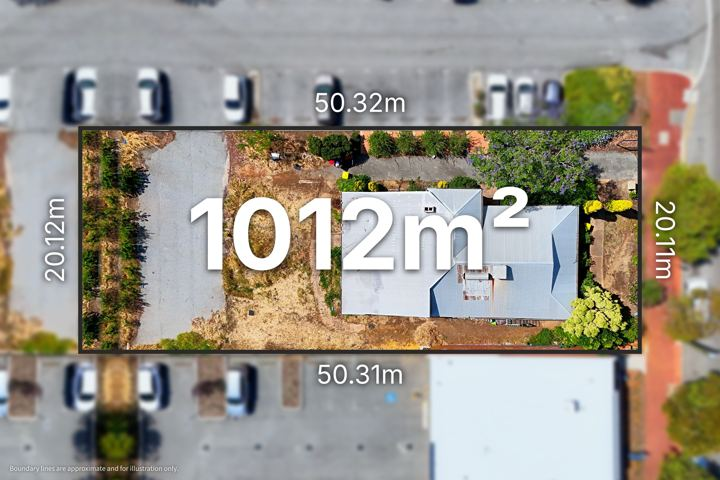
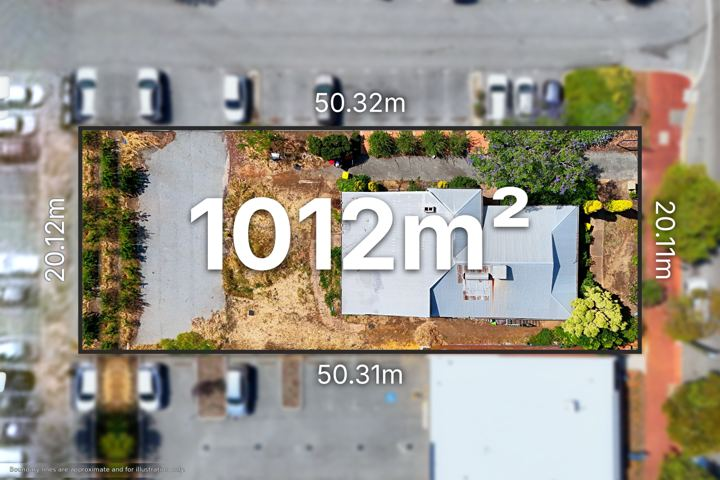
43 William St 0107: satellite blended outside the lot
Claude-Session: https://claude.ai/code/session_01A5qGg2LnJXxgSHoMQFvEEG

Changed region(s): [[0.0, 0.125, 0.2444, 1.0], [0.0, 0.0, 0.0917, 0.0312]]

diff --git a/aerials/17-nov-2026/index.html b/aerials/17-nov-2026/index.html
@@ -5,4 +5,4 @@ body{margin:0;background:var(--bg);color:var(--fg);font:15px/1.45 system-ui,-app
 header,section{max-width:1400px;margin:auto;padding:18px 16px}h1{font-size:20px;margin:0}h2{font-size:17px;margin:0}header p,section p{color:var(--mut);margin:4px 0 0}
 .ed{margin-left:10px;color:var(--acc);font-weight:600;text-decoration:none}a{color:var(--acc)}
 .chk{margin-top:10px}.chk summary{cursor:pointer;color:var(--mut);font-weight:600}.chk iframe{width:100%;height:420px;border:0;border-radius:6px;margin-top:6px;background:#111}.g{display:grid;grid-template-columns:repeat(auto-fill,minmax(280px,1fr));gap:8px;margin-top:10px}.g img{width:100%;display:block;border-radius:4px}</style></head>
-<body><header><h1>Drone edits — Tue 17 Nov 2026</h1><p>Tap a photo for full size. <b>Edit</b> opens the job in the <a href="/pins/">editor</a> with all its pins and settings.</p></header><section><h2>SEND TO EDITOR — no lot boundary (Mac offline, no cadastre/satellite); hazy hills/horizon after sky swap on 0218/0220/0227/0229 (tower ghosting removed); both top-downs over-saturated and the house is off-centre — please re-edit sky/colour · 34 Croyden Rd, Roleystone WA 6111</h2><p>Jayden Cooke · Rodway · 13 photos (top-downs first) <a class="ed" href="/pins/?open=17-nov-2026/34_croyden_rd">Edit</a><a class="ed" href="/lots/?img=/aerials/17-nov-2026/34_croyden_rd/src/DJI_20261117135524_0236_D.jpg&street=Croyden%20Road" target="_blank">Lots</a><a class="ed" href="34_croyden_rd/check.html" target="_blank">Check map</a></p><div class="g"><a href="34_croyden_rd/DJI_20261117135524_0236_D.jpg?v=1794930465" target="_blank"><img loading="lazy" src="34_croyden_rd/t/DJI_20261117135524_0236_D.jpg?v=1794930465" alt=""></a><a href="34_croyden_rd/DJI_20261117135538_0237_D_r180_sq.jpg?v=1794930465" target="_blank"><img loading="lazy" src="34_croyden_rd/t/DJI_20261117135538_0237_D_r180_sq.jpg?v=1794930465" alt=""></a><a href="34_croyden_rd/DJI_20261117134904_0218_D.jpg?v=1794930465" target="_blank"><img loading="lazy" src="34_croyden_rd/t/DJI_20261117134904_0218_D.jpg?v=1794930465" alt=""></a><a href="34_croyden_rd/DJI_20261117135013_0220_D.jpg?v=1794930465" target="_blank"><img loading="lazy" src="34_croyden_rd/t/DJI_20261117135013_0220_D.jpg?v=1794930465" alt=""></a><a href="34_croyden_rd/DJI_20261117135036_0221_D.jpg?v=1794930465" target="_blank"><img loading="lazy" src="34_croyden_rd/t/DJI_20261117135036_0221_D.jpg?v=1794930465" alt=""></a><a href="34_croyden_rd/DJI_20261117135113_0223_D.jpg?v=1794930465" target="_blank"><img loading="lazy" src="34_croyden_rd/t/DJI_20261117135113_0223_D.jpg?v=1794930465" alt=""></a><a href="34_croyden_rd/DJI_20261117135138_0224_D.jpg?v=1794930465" target="_blank"><img loading="lazy" src="34_croyden_rd/t/DJI_20261117135138_0224_D.jpg?v=1794930465" alt=""></a><a href="34_croyden_rd/DJI_20261117135159_0225_D.jpg?v=1794930465" target="_blank"><img loading="lazy" src="34_croyden_rd/t/DJI_20261117135159_0225_D.jpg?v=1794930465" alt=""></a><a href="34_croyden_rd/DJI_20261117135227_0227_D.jpg?v=1794930465" target="_blank"><img loading="lazy" src="34_croyden_rd/t/DJI_20261117135227_0227_D.jpg?v=1794930465" alt=""></a><a href="34_croyden_rd/DJI_20261117135326_0229_D.jpg?v=1794930465" target="_blank"><img loading="lazy" src="34_croyden_rd/t/DJI_20261117135326_0229_D.jpg?v=1794930465" alt=""></a><a href="34_croyden_rd/DJI_20261117143956_0239_D.jpg?v=1794930465" target="_blank"><img loading="lazy" src="34_croyden_rd/t/DJI_20261117143956_0239_D.jpg?v=1794930465" alt=""></a><a href="34_croyden_rd/DJI_20261117144039_0240_D.jpg?v=1794930465" target="_blank"><img loading="lazy" src="34_croyden_rd/t/DJI_20261117144039_0240_D.jpg?v=1794930465" alt=""></a><a href="34_croyden_rd/DJI_20261117144046_0241_D.jpg?v=1794930465" target="_blank"><img loading="lazy" src="34_croyden_rd/t/DJI_20261117144046_0241_D.jpg?v=1794930465" alt=""></a></div><details class="chk" open><summary>Quick check — boundary + 9 pinned places</summary><iframe loading="lazy" src="34_croyden_rd/check.html?v=1794930467" title="Boundary and places check"></iframe></details></section><section><h2>SEND TO EDITOR — pale hard-edged band of old sky above the horizon on 0258/0259/0260 after the sky swap; no lot boundary (grouped dwelling, Mac offline) — please re-do the sky on those frames · 374 Light St, Dianella WA 6059</h2><p>Lucy Deng · Ausvision Realty · 11 photos (top-downs first) <a class="ed" href="/pins/?open=17-nov-2026/374_light_st">Edit</a><a class="ed" href="/lots/?img=/aerials/17-nov-2026/374_light_st/src/DJI_20261117160634_0269_D_r180.jpg&street=Light%20Street" target="_blank">Lots</a><a class="ed" href="374_light_st/check.html" target="_blank">Check map</a></p><div class="g"><a href="374_light_st/DJI_20261117160634_0269_D_r180.jpg?v=1794930470" target="_blank"><img loading="lazy" src="374_light_st/t/DJI_20261117160634_0269_D_r180.jpg?v=1794930470" alt=""></a><a href="374_light_st/DJI_20261117160607_0267_D_sq.jpg?v=1794930470" target="_blank"><img loading="lazy" src="374_light_st/t/DJI_20261117160607_0267_D_sq.jpg?v=1794930470" alt=""></a><a href="374_light_st/DJI_20261117160019_0257_D.jpg?v=1794930470" target="_blank"><img loading="lazy" src="374_light_st/t/DJI_20261117160019_0257_D.jpg?v=1794930470" alt=""></a><a href="374_light_st/DJI_20261117160038_0258_D.jpg?v=1794930470" target="_blank"><img loading="lazy" src="374_light_st/t/DJI_20261117160038_0258_D.jpg?v=1794930470" alt=""></a><a href="374_light_st/DJI_20261117160056_0259_D.jpg?v=1794930470" target="_blank"><img loading="lazy" src="374_light_st/t/DJI_20261117160056_0259_D.jpg?v=1794930470" alt=""></a><a href="374_light_st/DJI_20261117160119_0260_D.jpg?v=1794930470" target="_blank"><img loading="lazy" src="374_light_st/t/DJI_20261117160119_0260_D.jpg?v=1794930470" alt=""></a><a href="374_light_st/DJI_20261117160147_0261_D.jpg?v=1794930470" target="_blank"><img loading="lazy" src="374_light_st/t/DJI_20261117160147_0261_D.jpg?v=1794930470" alt=""></a><a href="374_light_st/DJI_20261117160253_0263_D.jpg?v=1794930470" target="_blank"><img loading="lazy" src="374_light_st/t/DJI_20261117160253_0263_D.jpg?v=1794930470" alt=""></a><a href="374_light_st/DJI_20261117160402_0264_D.jpg?v=1794930470" target="_blank"><img loading="lazy" src="374_light_st/t/DJI_20261117160402_0264_D.jpg?v=1794930470" alt=""></a><a href="374_light_st/DJI_20261117160425_0265_D.jpg?v=1794930470" target="_blank"><img loading="lazy" src="374_light_st/t/DJI_20261117160425_0265_D.jpg?v=1794930470" alt=""></a><a href="374_light_st/DJI_20261117160443_0266_D.jpg?v=1794930470" target="_blank"><img loading="lazy" src="374_light_st/t/DJI_20261117160443_0266_D.jpg?v=1794930470" alt=""></a></div><details class="chk" open><summary>Quick check — boundary + 17 pinned places</summary><iframe loading="lazy" src="374_light_st/check.html?v=1794930472" title="Boundary and places check"></iframe></details></section><section><h2>SEND TO EDITOR — white halo/glow strip along the ridge line on 0114/0115 (faint haze 0108/0111/0112) after the sky swap; house is out of shot on 0110 and 0114 (shooter framing) — please re-do the sky and check those frames · 43 William St, Armadale WA 6112</h2><p>Jayden Cooke · Rodway · 10 photos (top-downs first) <a class="ed" href="/pins/?open=17-nov-2026/43_william_st">Edit</a><a class="ed" href="/lots/?img=/aerials/17-nov-2026/43_william_st/src/dji_fly_20261117_102652_0102_1794923605590_photo_sq.JPG&street=William%20Street" target="_blank">Lots</a><a class="ed" href="43_william_st/check.html" target="_blank">Check map</a></p><div class="g"><a href="43_william_st/dji_fly_20261117_102652_0102_1794923605590_photo_sq.jpg?v=1795010000" target="_blank"><img loading="lazy" src="43_william_st/t/dji_fly_20261117_102652_0102_1794923605590_photo_sq.jpg?v=1795010000" alt=""></a><a href="43_william_st/dji_fly_20261117_102734_0107_1794923598787_photo_sq.jpg?v=1795010000" target="_blank"><img loading="lazy" src="43_william_st/t/dji_fly_20261117_102734_0107_1794923598787_photo_sq.jpg?v=1795010000" alt=""></a><a href="43_william_st/dji_fly_20261117_102804_0108_1794923597373_photo.jpg?v=1795010000" target="_blank"><img loading="lazy" src="43_william_st/t/dji_fly_20261117_102804_0108_1794923597373_photo.jpg?v=1795010000" alt=""></a><a href="43_william_st/dji_fly_20261117_102836_0109_1794923595154_photo.jpg?v=1795010000" target="_blank"><img loading="lazy" src="43_william_st/t/dji_fly_20261117_102836_0109_1794923595154_photo.jpg?v=1795010000" alt=""></a><a href="43_william_st/dji_fly_20261117_102942_0110_1794923593774_photo.jpg?v=1795010000" target="_blank"><img loading="lazy" src="43_william_st/t/dji_fly_20261117_102942_0110_1794923593774_photo.jpg?v=1795010000" alt=""></a><a href="43_william_st/dji_fly_20261117_103016_0111_1794923592394_photo.jpg?v=1795010000" target="_blank"><img loading="lazy" src="43_william_st/t/dji_fly_20261117_103016_0111_1794923592394_photo.jpg?v=1795010000" alt=""></a><a href="43_william_st/dji_fly_20261117_103050_0112_1794923591070_photo.jpg?v=1795010000" target="_blank"><img loading="lazy" src="43_william_st/t/dji_fly_20261117_103050_0112_1794923591070_photo.jpg?v=1795010000" alt=""></a><a href="43_william_st/dji_fly_20261117_103102_0113_1794923589788_photo.jpg?v=1795010000" target="_blank"><img loading="lazy" src="43_william_st/t/dji_fly_20261117_103102_0113_1794923589788_photo.jpg?v=1795010000" alt=""></a><a href="43_william_st/dji_fly_20261117_103116_0114_1794923588534_photo.jpg?v=1795010000" target="_blank"><img loading="lazy" src="43_william_st/t/dji_fly_20261117_103116_0114_1794923588534_photo.jpg?v=1795010000" alt=""></a><a href="43_william_st/dji_fly_20261117_103130_0115_1794923587236_photo.jpg?v=1795010000" target="_blank"><img loading="lazy" src="43_william_st/t/dji_fly_20261117_103130_0115_1794923587236_photo.jpg?v=1795010000" alt=""></a></div><details class="chk" open><summary>Quick check — boundary + 12 pinned places</summary><iframe loading="lazy" src="43_william_st/check.html?v=1794950668" title="Boundary and places check"></iframe></details></section><section><h2>SEND TO EDITOR — sky swap left ghost blocks of old sky above the horizon on 0125/0126/0127 and halos/ghosting around the CBD towers on 0118/0119/0128, grey haze over the hills on 0123/0124 — please replace the sky on every oblique · 28/76 Newcastle St, West Perth WA 6005</h2><p>Shane Garrett · Belle Property · 13 photos (top-downs first) <a class="ed" href="/pins/?open=17-nov-2026/28_76_newcastle_st">Edit</a><a class="ed" href="/lots/?img=/aerials/17-nov-2026/28_76_newcastle_st/src/dji_fly_20261117_123400_0117_1794923584798_photo_r180_sq.JPG&street=Newcastle%20Street" target="_blank">Lots</a><a class="ed" href="28_76_newcastle_st/check.html" target="_blank">Check map</a></p><div class="g"><a href="28_76_newcastle_st/dji_fly_20261117_123400_0117_1794923584798_photo_r180_sq.jpg?v=1794950677" target="_blank"><img loading="lazy" src="28_76_newcastle_st/t/dji_fly_20261117_123400_0117_1794923584798_photo_r180_sq.jpg?v=1794950677" alt=""></a><a href="28_76_newcastle_st/dji_fly_20261117_123356_0116_1794923585995_photo.jpg?v=1794950678" target="_blank"><img loading="lazy" src="28_76_newcastle_st/t/dji_fly_20261117_123356_0116_1794923585995_photo.jpg?v=1794950678" alt=""></a><a href="28_76_newcastle_st/dji_fly_20261117_123438_0118_1794923583683_photo.jpg?v=1794950678" target="_blank"><img loading="lazy" src="28_76_newcastle_st/t/dji_fly_20261117_123438_0118_1794923583683_photo.jpg?v=1794950678" alt=""></a><a href="28_76_newcastle_st/dji_fly_20261117_123500_0119_1794923582541_photo.jpg?v=1794950678" target="_blank"><img loading="lazy" src="28_76_newcastle_st/t/dji_fly_20261117_123500_0119_1794923582541_photo.jpg?v=1794950678" alt=""></a><a href="28_76_newcastle_st/dji_fly_20261117_123532_0120_1794923581349_photo.jpg?v=1794950678" target="_blank"><img loading="lazy" src="28_76_newcastle_st/t/dji_fly_20261117_123532_0120_1794923581349_photo.jpg?v=1794950678" alt=""></a><a href="28_76_newcastle_st/dji_fly_20261117_123548_0121_1794923580121_photo.jpg?v=1794950678" target="_blank"><img loading="lazy" src="28_76_newcastle_st/t/dji_fly_20261117_123548_0121_1794923580121_photo.jpg?v=1794950678" alt=""></a><a href="28_76_newcastle_st/dji_fly_20261117_123610_0122_1794923578874_photo.jpg?v=1794950678" target="_blank"><img loading="lazy" src="28_76_newcastle_st/t/dji_fly_20261117_123610_0122_1794923578874_photo.jpg?v=1794950678" alt=""></a><a href="28_76_newcastle_st/dji_fly_20261117_123630_0123_1794923577572_photo.jpg?v=1794950678" target="_blank"><img loading="lazy" src="28_76_newcastle_st/t/dji_fly_20261117_123630_0123_1794923577572_photo.jpg?v=1794950678" alt=""></a><a href="28_76_newcastle_st/dji_fly_20261117_123646_0124_1794923576272_photo.jpg?v=1794950678" target="_blank"><img loading="lazy" src="28_76_newcastle_st/t/dji_fly_20261117_123646_0124_1794923576272_photo.jpg?v=1794950678" alt=""></a><a href="28_76_newcastle_st/dji_fly_20261117_123702_0125_1794923575020_photo.jpg?v=1794950678" target="_blank"><img loading="lazy" src="28_76_newcastle_st/t/dji_fly_20261117_123702_0125_1794923575020_photo.jpg?v=1794950678" alt=""></a><a href="28_76_newcastle_st/dji_fly_20261117_123724_0126_1794923573753_photo.jpg?v=1794950678" target="_blank"><img loading="lazy" src="28_76_newcastle_st/t/dji_fly_20261117_123724_0126_1794923573753_photo.jpg?v=1794950678" alt=""></a><a href="28_76_newcastle_st/dji_fly_20261117_123754_0127_1794923572402_photo.jpg?v=1794950678" target="_blank"><img loading="lazy" src="28_76_newcastle_st/t/dji_fly_20261117_123754_0127_1794923572402_photo.jpg?v=1794950678" alt=""></a><a href="28_76_newcastle_st/dji_fly_20261117_123806_0128_1794923571185_photo.jpg?v=1794950678" target="_blank"><img loading="lazy" src="28_76_newcastle_st/t/dji_fly_20261117_123806_0128_1794923571185_photo.jpg?v=1794950678" alt=""></a></div><details class="chk" open><summary>Quick check — boundary + 8 pinned places</summary><iframe loading="lazy" src="28_76_newcastle_st/check.html?v=1794950681" title="Boundary and places check"></iframe></details></section><section><h2>SEND TO EDITOR — CBD tower tops ghosted after the sky swap on 0135/0136, faint halo 0131 and haze 0133/0134 — please re-do the sky on the obliques · 79/1178 Hay St, West Perth WA 6005</h2><p>Megan Topham · Belle Property · 12 photos (top-downs first) <a class="ed" href="/pins/?open=17-nov-2026/79_1178_hay_st">Edit</a><a class="ed" href="/lots/?img=/aerials/17-nov-2026/79_1178_hay_st/src/dji_fly_20261117_160212_0129_1794923569992_photo_r270.JPG&street=Hay%20Street" target="_blank">Lots</a><a class="ed" href="79_1178_hay_st/check.html" target="_blank">Check map</a></p><div class="g"><a href="79_1178_hay_st/dji_fly_20261117_160212_0129_1794923569992_photo_r270.jpg?v=1794950688" target="_blank"><img loading="lazy" src="79_1178_hay_st/t/dji_fly_20261117_160212_0129_1794923569992_photo_r270.jpg?v=1794950688" alt=""></a><a href="79_1178_hay_st/dji_fly_20261117_160212_0129_1794923569992_photo.jpg?v=1794950688" target="_blank"><img loading="lazy" src="79_1178_hay_st/t/dji_fly_20261117_160212_0129_1794923569992_photo.jpg?v=1794950688" alt=""></a><a href="79_1178_hay_st/dji_fly_20261117_160252_0130_1794923568799_photo.jpg?v=1794950688" target="_blank"><img loading="lazy" src="79_1178_hay_st/t/dji_fly_20261117_160252_0130_1794923568799_photo.jpg?v=1794950688" alt=""></a><a href="79_1178_hay_st/dji_fly_20261117_160320_0131_1794923567548_photo.jpg?v=1794950688" target="_blank"><img loading="lazy" src="79_1178_hay_st/t/dji_fly_20261117_160320_0131_1794923567548_photo.jpg?v=1794950688" alt=""></a><a href="79_1178_hay_st/dji_fly_20261117_160336_0132_1794923565379_photo.jpg?v=1794950688" target="_blank"><img loading="lazy" src="79_1178_hay_st/t/dji_fly_20261117_160336_0132_1794923565379_photo.jpg?v=1794950688" alt=""></a><a href="79_1178_hay_st/dji_fly_20261117_160354_0133_1794923564099_photo.jpg?v=1794950688" target="_blank"><img loading="lazy" src="79_1178_hay_st/t/dji_fly_20261117_160354_0133_1794923564099_photo.jpg?v=1794950688" alt=""></a><a href="79_1178_hay_st/dji_fly_20261117_160406_0134_1794923562823_photo.jpg?v=1794950688" target="_blank"><img loading="lazy" src="79_1178_hay_st/t/dji_fly_20261117_160406_0134_1794923562823_photo.jpg?v=1794950688" alt=""></a><a href="79_1178_hay_st/dji_fly_20261117_160428_0135_1794923561548_photo.jpg?v=1794950688" target="_blank"><img loading="lazy" src="79_1178_hay_st/t/dji_fly_20261117_160428_0135_1794923561548_photo.jpg?v=1794950688" alt=""></a><a href="79_1178_hay_st/dji_fly_20261117_160446_0136_1794923560286_photo.jpg?v=1794950688" target="_blank"><img loading="lazy" src="79_1178_hay_st/t/dji_fly_20261117_160446_0136_1794923560286_photo.jpg?v=1794950688" alt=""></a><a href="79_1178_hay_st/dji_fly_20261117_160512_0137_1794923559042_photo.jpg?v=1794950688" target="_blank"><img loading="lazy" src="79_1178_hay_st/t/dji_fly_20261117_160512_0137_1794923559042_photo.jpg?v=1794950688" alt=""></a><a href="79_1178_hay_st/dji_fly_20261117_160530_0138_1794923557769_photo.jpg?v=1794950688" target="_blank"><img loading="lazy" src="79_1178_hay_st/t/dji_fly_20261117_160530_0138_1794923557769_photo.jpg?v=1794950688" alt=""></a><a href="79_1178_hay_st/dji_fly_20261117_160548_0139_1794923556478_photo.jpg?v=1794950688" target="_blank"><img loading="lazy" src="79_1178_hay_st/t/dji_fly_20261117_160548_0139_1794923556478_photo.jpg?v=1794950688" alt=""></a></div><details class="chk" open><summary>Quick check — boundary + 10 pinned places</summary><iframe loading="lazy" src="79_1178_hay_st/check.html?v=1794950691" title="Boundary and places check"></iframe></details></section><script src="../dl.js"></script></body></html>
+<body><header><h1>Drone edits — Tue 17 Nov 2026</h1><p>Tap a photo for full size. <b>Edit</b> opens the job in the <a href="/pins/">editor</a> with all its pins and settings.</p></header><section><h2>SEND TO EDITOR — no lot boundary (Mac offline, no cadastre/satellite); hazy hills/horizon after sky swap on 0218/0220/0227/0229 (tower ghosting removed); both top-downs over-saturated and the house is off-centre — please re-edit sky/colour · 34 Croyden Rd, Roleystone WA 6111</h2><p>Jayden Cooke · Rodway · 13 photos (top-downs first) <a class="ed" href="/pins/?open=17-nov-2026/34_croyden_rd">Edit</a><a class="ed" href="/lots/?img=/aerials/17-nov-2026/34_croyden_rd/src/DJI_20261117135524_0236_D.jpg&street=Croyden%20Road" target="_blank">Lots</a><a class="ed" href="34_croyden_rd/check.html" target="_blank">Check map</a></p><div class="g"><a href="34_croyden_rd/DJI_20261117135524_0236_D.jpg?v=1794930465" target="_blank"><img loading="lazy" src="34_croyden_rd/t/DJI_20261117135524_0236_D.jpg?v=1794930465" alt=""></a><a href="34_croyden_rd/DJI_20261117135538_0237_D_r180_sq.jpg?v=1794930465" target="_blank"><img loading="lazy" src="34_croyden_rd/t/DJI_20261117135538_0237_D_r180_sq.jpg?v=1794930465" alt=""></a><a href="34_croyden_rd/DJI_20261117134904_0218_D.jpg?v=1794930465" target="_blank"><img loading="lazy" src="34_croyden_rd/t/DJI_20261117134904_0218_D.jpg?v=1794930465" alt=""></a><a href="34_croyden_rd/DJI_20261117135013_0220_D.jpg?v=1794930465" target="_blank"><img loading="lazy" src="34_croyden_rd/t/DJI_20261117135013_0220_D.jpg?v=1794930465" alt=""></a><a href="34_croyden_rd/DJI_20261117135036_0221_D.jpg?v=1794930465" target="_blank"><img loading="lazy" src="34_croyden_rd/t/DJI_20261117135036_0221_D.jpg?v=1794930465" alt=""></a><a href="34_croyden_rd/DJI_20261117135113_0223_D.jpg?v=1794930465" target="_blank"><img loading="lazy" src="34_croyden_rd/t/DJI_20261117135113_0223_D.jpg?v=1794930465" alt=""></a><a href="34_croyden_rd/DJI_20261117135138_0224_D.jpg?v=1794930465" target="_blank"><img loading="lazy" src="34_croyden_rd/t/DJI_20261117135138_0224_D.jpg?v=1794930465" alt=""></a><a href="34_croyden_rd/DJI_20261117135159_0225_D.jpg?v=1794930465" target="_blank"><img loading="lazy" src="34_croyden_rd/t/DJI_20261117135159_0225_D.jpg?v=1794930465" alt=""></a><a href="34_croyden_rd/DJI_20261117135227_0227_D.jpg?v=1794930465" target="_blank"><img loading="lazy" src="34_croyden_rd/t/DJI_20261117135227_0227_D.jpg?v=1794930465" alt=""></a><a href="34_croyden_rd/DJI_20261117135326_0229_D.jpg?v=1794930465" target="_blank"><img loading="lazy" src="34_croyden_rd/t/DJI_20261117135326_0229_D.jpg?v=1794930465" alt=""></a><a href="34_croyden_rd/DJI_20261117143956_0239_D.jpg?v=1794930465" target="_blank"><img loading="lazy" src="34_croyden_rd/t/DJI_20261117143956_0239_D.jpg?v=1794930465" alt=""></a><a href="34_croyden_rd/DJI_20261117144039_0240_D.jpg?v=1794930465" target="_blank"><img loading="lazy" src="34_croyden_rd/t/DJI_20261117144039_0240_D.jpg?v=1794930465" alt=""></a><a href="34_croyden_rd/DJI_20261117144046_0241_D.jpg?v=1794930465" target="_blank"><img loading="lazy" src="34_croyden_rd/t/DJI_20261117144046_0241_D.jpg?v=1794930465" alt=""></a></div><details class="chk" open><summary>Quick check — boundary + 9 pinned places</summary><iframe loading="lazy" src="34_croyden_rd/check.html?v=1794930467" title="Boundary and places check"></iframe></details></section><section><h2>SEND TO EDITOR — pale hard-edged band of old sky above the horizon on 0258/0259/0260 after the sky swap; no lot boundary (grouped dwelling, Mac offline) — please re-do the sky on those frames · 374 Light St, Dianella WA 6059</h2><p>Lucy Deng · Ausvision Realty · 11 photos (top-downs first) <a class="ed" href="/pins/?open=17-nov-2026/374_light_st">Edit</a><a class="ed" href="/lots/?img=/aerials/17-nov-2026/374_light_st/src/DJI_20261117160634_0269_D_r180.jpg&street=Light%20Street" target="_blank">Lots</a><a class="ed" href="374_light_st/check.html" target="_blank">Check map</a></p><div class="g"><a href="374_light_st/DJI_20261117160634_0269_D_r180.jpg?v=1794930470" target="_blank"><img loading="lazy" src="374_light_st/t/DJI_20261117160634_0269_D_r180.jpg?v=1794930470" alt=""></a><a href="374_light_st/DJI_20261117160607_0267_D_sq.jpg?v=1794930470" target="_blank"><img loading="lazy" src="374_light_st/t/DJI_20261117160607_0267_D_sq.jpg?v=1794930470" alt=""></a><a href="374_light_st/DJI_20261117160019_0257_D.jpg?v=1794930470" target="_blank"><img loading="lazy" src="374_light_st/t/DJI_20261117160019_0257_D.jpg?v=1794930470" alt=""></a><a href="374_light_st/DJI_20261117160038_0258_D.jpg?v=1794930470" target="_blank"><img loading="lazy" src="374_light_st/t/DJI_20261117160038_0258_D.jpg?v=1794930470" alt=""></a><a href="374_light_st/DJI_20261117160056_0259_D.jpg?v=1794930470" target="_blank"><img loading="lazy" src="374_light_st/t/DJI_20261117160056_0259_D.jpg?v=1794930470" alt=""></a><a href="374_light_st/DJI_20261117160119_0260_D.jpg?v=1794930470" target="_blank"><img loading="lazy" src="374_light_st/t/DJI_20261117160119_0260_D.jpg?v=1794930470" alt=""></a><a href="374_light_st/DJI_20261117160147_0261_D.jpg?v=1794930470" target="_blank"><img loading="lazy" src="374_light_st/t/DJI_20261117160147_0261_D.jpg?v=1794930470" alt=""></a><a href="374_light_st/DJI_20261117160253_0263_D.jpg?v=1794930470" target="_blank"><img loading="lazy" src="374_light_st/t/DJI_20261117160253_0263_D.jpg?v=1794930470" alt=""></a><a href="374_light_st/DJI_20261117160402_0264_D.jpg?v=1794930470" target="_blank"><img loading="lazy" src="374_light_st/t/DJI_20261117160402_0264_D.jpg?v=1794930470" alt=""></a><a href="374_light_st/DJI_20261117160425_0265_D.jpg?v=1794930470" target="_blank"><img loading="lazy" src="374_light_st/t/DJI_20261117160425_0265_D.jpg?v=1794930470" alt=""></a><a href="374_light_st/DJI_20261117160443_0266_D.jpg?v=1794930470" target="_blank"><img loading="lazy" src="374_light_st/t/DJI_20261117160443_0266_D.jpg?v=1794930470" alt=""></a></div><details class="chk" open><summary>Quick check — boundary + 17 pinned places</summary><iframe loading="lazy" src="374_light_st/check.html?v=1794930472" title="Boundary and places check"></iframe></details></section><section><h2>SEND TO EDITOR — white halo/glow strip along the ridge line on 0114/0115 (faint haze 0108/0111/0112) after the sky swap; house is out of shot on 0110 and 0114 (shooter framing) — please re-do the sky and check those frames · 43 William St, Armadale WA 6112</h2><p>Jayden Cooke · Rodway · 10 photos (top-downs first) <a class="ed" href="/pins/?open=17-nov-2026/43_william_st">Edit</a><a class="ed" href="/lots/?img=/aerials/17-nov-2026/43_william_st/src/dji_fly_20261117_102652_0102_1794923605590_photo_sq.JPG&street=William%20Street" target="_blank">Lots</a><a class="ed" href="43_william_st/check.html" target="_blank">Check map</a></p><div class="g"><a href="43_william_st/dji_fly_20261117_102652_0102_1794923605590_photo_sq.jpg?v=1795010000" target="_blank"><img loading="lazy" src="43_william_st/t/dji_fly_20261117_102652_0102_1794923605590_photo_sq.jpg?v=1795010000" alt=""></a><a href="43_william_st/dji_fly_20261117_102734_0107_1794923598787_photo_sq.jpg?v=1795030000" target="_blank"><img loading="lazy" src="43_william_st/t/dji_fly_20261117_102734_0107_1794923598787_photo_sq.jpg?v=1795030000" alt=""></a><a href="43_william_st/dji_fly_20261117_102804_0108_1794923597373_photo.jpg?v=1795010000" target="_blank"><img loading="lazy" src="43_william_st/t/dji_fly_20261117_102804_0108_1794923597373_photo.jpg?v=1795010000" alt=""></a><a href="43_william_st/dji_fly_20261117_102836_0109_1794923595154_photo.jpg?v=1795010000" target="_blank"><img loading="lazy" src="43_william_st/t/dji_fly_20261117_102836_0109_1794923595154_photo.jpg?v=1795010000" alt=""></a><a href="43_william_st/dji_fly_20261117_102942_0110_1794923593774_photo.jpg?v=1795010000" target="_blank"><img loading="lazy" src="43_william_st/t/dji_fly_20261117_102942_0110_1794923593774_photo.jpg?v=1795010000" alt=""></a><a href="43_william_st/dji_fly_20261117_103016_0111_1794923592394_photo.jpg?v=1795010000" target="_blank"><img loading="lazy" src="43_william_st/t/dji_fly_20261117_103016_0111_1794923592394_photo.jpg?v=1795010000" alt=""></a><a href="43_william_st/dji_fly_20261117_103050_0112_1794923591070_photo.jpg?v=1795010000" target="_blank"><img loading="lazy" src="43_william_st/t/dji_fly_20261117_103050_0112_1794923591070_photo.jpg?v=1795010000" alt=""></a><a href="43_william_st/dji_fly_20261117_103102_0113_1794923589788_photo.jpg?v=1795010000" target="_blank"><img loading="lazy" src="43_william_st/t/dji_fly_20261117_103102_0113_1794923589788_photo.jpg?v=1795010000" alt=""></a><a href="43_william_st/dji_fly_20261117_103116_0114_1794923588534_photo.jpg?v=1795010000" target="_blank"><img loading="lazy" src="43_william_st/t/dji_fly_20261117_103116_0114_1794923588534_photo.jpg?v=1795010000" alt=""></a><a href="43_william_st/dji_fly_20261117_103130_0115_1794923587236_photo.jpg?v=1795010000" target="_blank"><img loading="lazy" src="43_william_st/t/dji_fly_20261117_103130_0115_1794923587236_photo.jpg?v=1795010000" alt=""></a></div><details class="chk" open><summary>Quick check — boundary + 12 pinned places</summary><iframe loading="lazy" src="43_william_st/check.html?v=1794950668" title="Boundary and places check"></iframe></details></section><section><h2>SEND TO EDITOR — sky swap left ghost blocks of old sky above the horizon on 0125/0126/0127 and halos/ghosting around the CBD towers on 0118/0119/0128, grey haze over the hills on 0123/0124 — please replace the sky on every oblique · 28/76 Newcastle St, West Perth WA 6005</h2><p>Shane Garrett · Belle Property · 13 photos (top-downs first) <a class="ed" href="/pins/?open=17-nov-2026/28_76_newcastle_st">Edit</a><a class="ed" href="/lots/?img=/aerials/17-nov-2026/28_76_newcastle_st/src/dji_fly_20261117_123400_0117_1794923584798_photo_r180_sq.JPG&street=Newcastle%20Street" target="_blank">Lots</a><a class="ed" href="28_76_newcastle_st/check.html" target="_blank">Check map</a></p><div class="g"><a href="28_76_newcastle_st/dji_fly_20261117_123400_0117_1794923584798_photo_r180_sq.jpg?v=1794950677" target="_blank"><img loading="lazy" src="28_76_newcastle_st/t/dji_fly_20261117_123400_0117_1794923584798_photo_r180_sq.jpg?v=1794950677" alt=""></a><a href="28_76_newcastle_st/dji_fly_20261117_123356_0116_1794923585995_photo.jpg?v=1794950678" target="_blank"><img loading="lazy" src="28_76_newcastle_st/t/dji_fly_20261117_123356_0116_1794923585995_photo.jpg?v=1794950678" alt=""></a><a href="28_76_newcastle_st/dji_fly_20261117_123438_0118_1794923583683_photo.jpg?v=1794950678" target="_blank"><img loading="lazy" src="28_76_newcastle_st/t/dji_fly_20261117_123438_0118_1794923583683_photo.jpg?v=1794950678" alt=""></a><a href="28_76_newcastle_st/dji_fly_20261117_123500_0119_1794923582541_photo.jpg?v=1794950678" target="_blank"><img loading="lazy" src="28_76_newcastle_st/t/dji_fly_20261117_123500_0119_1794923582541_photo.jpg?v=1794950678" alt=""></a><a href="28_76_newcastle_st/dji_fly_20261117_123532_0120_1794923581349_photo.jpg?v=1794950678" target="_blank"><img loading="lazy" src="28_76_newcastle_st/t/dji_fly_20261117_123532_0120_1794923581349_photo.jpg?v=1794950678" alt=""></a><a href="28_76_newcastle_st/dji_fly_20261117_123548_0121_1794923580121_photo.jpg?v=1794950678" target="_blank"><img loading="lazy" src="28_76_newcastle_st/t/dji_fly_20261117_123548_0121_1794923580121_photo.jpg?v=1794950678" alt=""></a><a href="28_76_newcastle_st/dji_fly_20261117_123610_0122_1794923578874_photo.jpg?v=1794950678" target="_blank"><img loading="lazy" src="28_76_newcastle_st/t/dji_fly_20261117_123610_0122_1794923578874_photo.jpg?v=1794950678" alt=""></a><a href="28_76_newcastle_st/dji_fly_20261117_123630_0123_1794923577572_photo.jpg?v=1794950678" target="_blank"><img loading="lazy" src="28_76_newcastle_st/t/dji_fly_20261117_123630_0123_1794923577572_photo.jpg?v=1794950678" alt=""></a><a href="28_76_newcastle_st/dji_fly_20261117_123646_0124_1794923576272_photo.jpg?v=1794950678" target="_blank"><img loading="lazy" src="28_76_newcastle_st/t/dji_fly_20261117_123646_0124_1794923576272_photo.jpg?v=1794950678" alt=""></a><a href="28_76_newcastle_st/dji_fly_20261117_123702_0125_1794923575020_photo.jpg?v=1794950678" target="_blank"><img loading="lazy" src="28_76_newcastle_st/t/dji_fly_20261117_123702_0125_1794923575020_photo.jpg?v=1794950678" alt=""></a><a href="28_76_newcastle_st/dji_fly_20261117_123724_0126_1794923573753_photo.jpg?v=1794950678" target="_blank"><img loading="lazy" src="28_76_newcastle_st/t/dji_fly_20261117_123724_0126_1794923573753_photo.jpg?v=1794950678" alt=""></a><a href="28_76_newcastle_st/dji_fly_20261117_123754_0127_1794923572402_photo.jpg?v=1794950678" target="_blank"><img loading="lazy" src="28_76_newcastle_st/t/dji_fly_20261117_123754_0127_1794923572402_photo.jpg?v=1794950678" alt=""></a><a href="28_76_newcastle_st/dji_fly_20261117_123806_0128_1794923571185_photo.jpg?v=1794950678" target="_blank"><img loading="lazy" src="28_76_newcastle_st/t/dji_fly_20261117_123806_0128_1794923571185_photo.jpg?v=1794950678" alt=""></a></div><details class="chk" open><summary>Quick check — boundary + 8 pinned places</summary><iframe loading="lazy" src="28_76_newcastle_st/check.html?v=1794950681" title="Boundary and places check"></iframe></details></section><section><h2>SEND TO EDITOR — CBD tower tops ghosted after the sky swap on 0135/0136, faint halo 0131 and haze 0133/0134 — please re-do the sky on the obliques · 79/1178 Hay St, West Perth WA 6005</h2><p>Megan Topham · Belle Property · 12 photos (top-downs first) <a class="ed" href="/pins/?open=17-nov-2026/79_1178_hay_st">Edit</a><a class="ed" href="/lots/?img=/aerials/17-nov-2026/79_1178_hay_st/src/dji_fly_20261117_160212_0129_1794923569992_photo_r270.JPG&street=Hay%20Street" target="_blank">Lots</a><a class="ed" href="79_1178_hay_st/check.html" target="_blank">Check map</a></p><div class="g"><a href="79_1178_hay_st/dji_fly_20261117_160212_0129_1794923569992_photo_r270.jpg?v=1794950688" target="_blank"><img loading="lazy" src="79_1178_hay_st/t/dji_fly_20261117_160212_0129_1794923569992_photo_r270.jpg?v=1794950688" alt=""></a><a href="79_1178_hay_st/dji_fly_20261117_160212_0129_1794923569992_photo.jpg?v=1794950688" target="_blank"><img loading="lazy" src="79_1178_hay_st/t/dji_fly_20261117_160212_0129_1794923569992_photo.jpg?v=1794950688" alt=""></a><a href="79_1178_hay_st/dji_fly_20261117_160252_0130_1794923568799_photo.jpg?v=1794950688" target="_blank"><img loading="lazy" src="79_1178_hay_st/t/dji_fly_20261117_160252_0130_1794923568799_photo.jpg?v=1794950688" alt=""></a><a href="79_1178_hay_st/dji_fly_20261117_160320_0131_1794923567548_photo.jpg?v=1794950688" target="_blank"><img loading="lazy" src="79_1178_hay_st/t/dji_fly_20261117_160320_0131_1794923567548_photo.jpg?v=1794950688" alt=""></a><a href="79_1178_hay_st/dji_fly_20261117_160336_0132_1794923565379_photo.jpg?v=1794950688" target="_blank"><img loading="lazy" src="79_1178_hay_st/t/dji_fly_20261117_160336_0132_1794923565379_photo.jpg?v=1794950688" alt=""></a><a href="79_1178_hay_st/dji_fly_20261117_160354_0133_1794923564099_photo.jpg?v=1794950688" target="_blank"><img loading="lazy" src="79_1178_hay_st/t/dji_fly_20261117_160354_0133_1794923564099_photo.jpg?v=1794950688" alt=""></a><a href="79_1178_hay_st/dji_fly_20261117_160406_0134_1794923562823_photo.jpg?v=1794950688" target="_blank"><img loading="lazy" src="79_1178_hay_st/t/dji_fly_20261117_160406_0134_1794923562823_photo.jpg?v=1794950688" alt=""></a><a href="79_1178_hay_st/dji_fly_20261117_160428_0135_1794923561548_photo.jpg?v=1794950688" target="_blank"><img loading="lazy" src="79_1178_hay_st/t/dji_fly_20261117_160428_0135_1794923561548_photo.jpg?v=1794950688" alt=""></a><a href="79_1178_hay_st/dji_fly_20261117_160446_0136_1794923560286_photo.jpg?v=1794950688" target="_blank"><img loading="lazy" src="79_1178_hay_st/t/dji_fly_20261117_160446_0136_1794923560286_photo.jpg?v=1794950688" alt=""></a><a href="79_1178_hay_st/dji_fly_20261117_160512_0137_1794923559042_photo.jpg?v=1794950688" target="_blank"><img loading="lazy" src="79_1178_hay_st/t/dji_fly_20261117_160512_0137_1794923559042_photo.jpg?v=1794950688" alt=""></a><a href="79_1178_hay_st/dji_fly_20261117_160530_0138_1794923557769_photo.jpg?v=1794950688" target="_blank"><img loading="lazy" src="79_1178_hay_st/t/dji_fly_20261117_160530_0138_1794923557769_photo.jpg?v=1794950688" alt=""></a><a href="79_1178_hay_st/dji_fly_20261117_160548_0139_1794923556478_photo.jpg?v=1794950688" target="_blank"><img loading="lazy" src="79_1178_hay_st/t/dji_fly_20261117_160548_0139_1794923556478_photo.jpg?v=1794950688" alt=""></a></div><details class="chk" open><summary>Quick check — boundary + 10 pinned places</summary><iframe loading="lazy" src="79_1178_hay_st/check.html?v=1794950691" title="Boundary and places check"></iframe></details></section><script src="../dl.js"></script></body></html>
